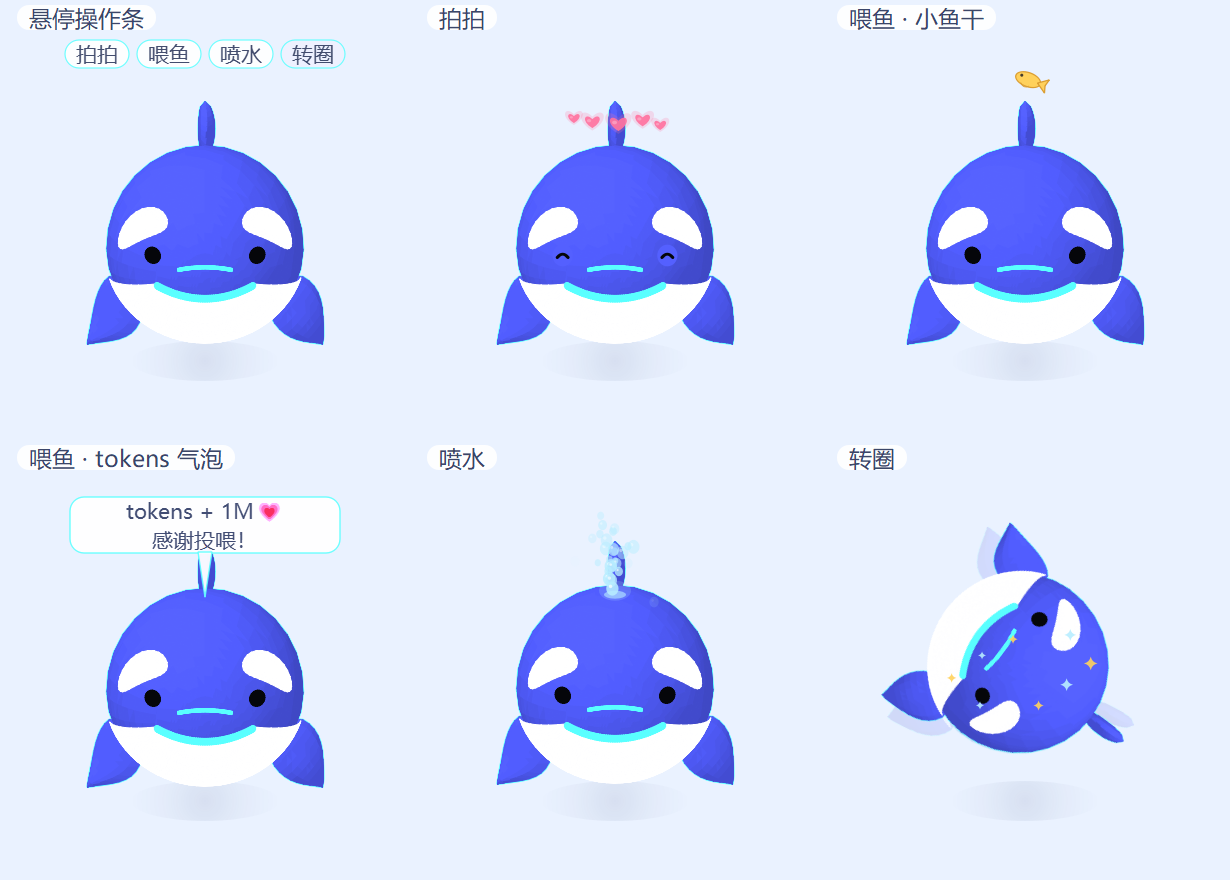
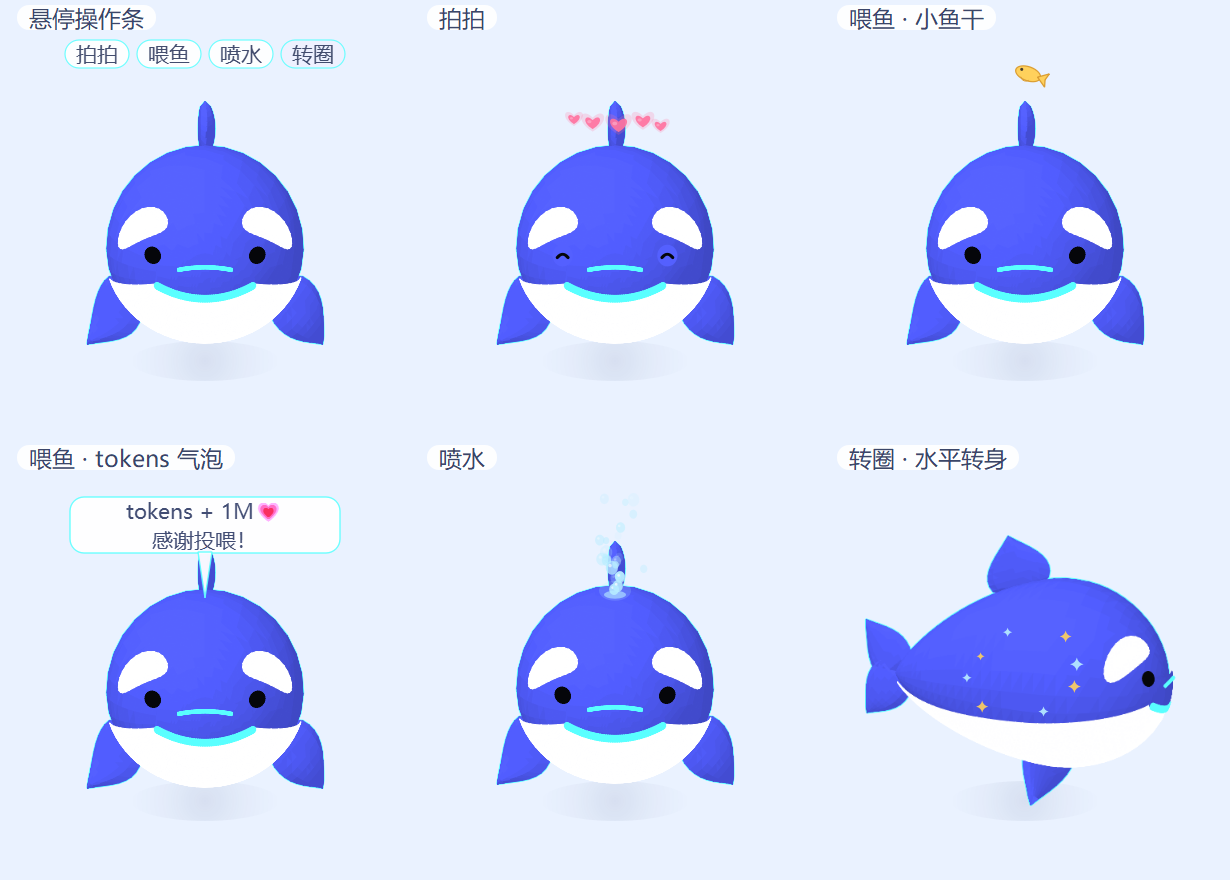
Use pre-rendered 3D turntable for spin

diff --git a/whale_pet_3d.py b/whale_pet_3d.py
@@ -25,6 +25,7 @@ from __future__ import annotations
 import math
 import sys
 import time
+from pathlib import Path
 
 from PyQt5.QtCore import (
     QEasingCurve,
@@ -108,6 +109,11 @@ class WhalePet(QWidget):
         self._spin_frames = []
         self._spin_key = None
         self._spin_duration = 1.35
+        self._spin_sheet = QImage()
+        self._spin_sheet_cell = 400
+        self._spin_sheet_cols = 6
+        self._spin_sheet_rows = 6
+        self._spin_start_index = 0
 
         self._yaw = INITIAL_YAW
         self._pitch = INITIAL_PITCH
@@ -226,13 +232,9 @@ class WhalePet(QWidget):
         nod = self._effects.nod_offset(now)
         y_shift = bob + nod
 
-        if self._effects.name == "spin" and self._spin_frames:
+        if self._effects.name == "spin":
             progress = (now - self._effects.start) / self._spin_duration
             progress = max(0.0, min(1.0, progress))
-            index = min(
-                len(self._spin_frames) - 1,
-                int(progress * len(self._spin_frames)),
-            )
             hop = -8.0 * math.sin(math.pi * progress)
             target = QRectF(
                 0.0,
@@ -240,7 +242,30 @@ class WhalePet(QWidget):
                 float(PET_SIZE),
                 float(PET_SIZE),
             )
-            painter.drawImage(target, self._spin_frames[index])
+            if not self._spin_sheet.isNull():
+                count = self._spin_sheet_cols * self._spin_sheet_rows
+                eased = progress * progress * (3.0 - 2.0 * progress)
+                index = (
+                    self._spin_start_index + int(eased * count)
+                ) % count
+                col = index % self._spin_sheet_cols
+                row = index // self._spin_sheet_cols
+                cell = float(self._spin_sheet_cell)
+                source = QRectF(
+                    col * cell,
+                    row * cell,
+                    cell,
+                    cell,
+                )
+                painter.drawImage(target, self._spin_sheet, source)
+            elif self._spin_frames:
+                index = min(
+                    len(self._spin_frames) - 1,
+                    int(progress * len(self._spin_frames)),
+                )
+                painter.drawImage(target, self._spin_frames[index])
+            else:
+                painter.drawImage(target, image)
         else:
             target = QRectF(0.0, y_shift, float(PET_SIZE), float(PET_SIZE))
             painter.drawImage(target, image)
@@ -358,8 +383,29 @@ class WhalePet(QWidget):
     # ------------------------------------------------------------------
     # 互动
     # ------------------------------------------------------------------
+    def _load_spin_sheet(self) -> bool:
+        """加载预渲染的 3D 水平转台动画（6×6，共 36 帧）。"""
+        if not self._spin_sheet.isNull():
+            return True
+        path = Path(__file__).resolve().parent / "spin_sheet.png"
+        image = QImage(str(path))
+        if image.isNull():
+            return False
+        cols = 6
+        rows = 6
+        if image.width() % cols or image.height() % rows:
+            return False
+        cell = image.width() // cols
+        if cell <= 0 or image.height() // rows != cell:
+            return False
+        self._spin_sheet = image
+        self._spin_sheet_cell = cell
+        self._spin_sheet_cols = cols
+        self._spin_sheet_rows = rows
+        return True
+
     def _build_spin_frames(self) -> None:
-        """把当前视角的缓存图预渲染成 36 帧转圈动画。"""
+        """素材缺失时的后备方案：把当前缓存图做成 2D 转圈动画。"""
         image, _render_size = self._current_image()
         dpr = max(1.0, float(image.devicePixelRatio()))
         key = (
@@ -410,9 +456,16 @@ class WhalePet(QWidget):
         if name == "spin":
             if self._effects.active:
                 return
-            self._build_spin_frames()
+            has_sheet = self._load_spin_sheet()
+            if not has_sheet:
+                self._build_spin_frames()
             if not self._effects.trigger("spin"):
                 return
+            if has_sheet:
+                count = self._spin_sheet_cols * self._spin_sheet_rows
+                self._spin_start_index = int(
+                    round((self._yaw % 360.0) / 10.0)
+                ) % count
         else:
             if not self._effects.trigger(name):
                 return

diff --git a/whale_effects.py b/whale_effects.py
@@ -6,7 +6,7 @@
   - 拍拍：眯眼 + 爱心
   - 喂鱼：小鱼干落下 + 点头 + tokens 气泡
   - 喷水：头顶浅蓝色水珠喷泉
-  - 转圈：画面旋转动画 + 星星（旋转帧由窗口预生成）
+  - 转圈：3D 水平转台动画 + 星星（转台帧已预渲染）
 """
 
 from __future__ import annotations

diff --git a/README.md b/README.md
@@ -38,12 +38,13 @@
 | **拍拍** | 小鲸鱼眯起眼睛，头顶冒出几颗粉色爱心 |
 | **喂鱼** | 一条黄色小鱼干从上方落下，小鲸鱼轻轻点头，然后冒出「tokens + 1M💗，感谢投喂！」气泡 |
 | **喷水** | 头顶喷出浅蓝色水珠喷泉，持续约 3 秒 |
-| **转圈** | 小鲸鱼像小陀螺一样原地转一整圈，周围冒出星星，约 1.35 秒 |
+| **转圈** | 小鲸鱼绕垂直轴水平转一整圈，周围冒出星星，约 1.35 秒 |
 
 - 按钮日常隐藏，鼠标移开后还会停留 1 秒再淡出，方便从容点击；
 - 右键菜单里也有「拍拍 / 喂鱼 / 喷水 / 转圈」，方便发现；
 - 拍拍、喂鱼、喷水期间可以继续旋转和移动小鲸鱼；转圈时会短暂锁定视角，避免动画和手动旋转打架；
-- 转圈不是逐帧渲染 3D，而是从当前视角的缓存图预生成 36 帧 2D 动画，点击后直接播放，所以不会卡；
+- 转圈不是逐帧渲染 3D，而是提前做好一张 6×6 的 36 帧 3D 转台图（`spin_sheet.png`），点击后从当前水平角度附近开始直接播放，所以不会卡；
+- 目前转台图按初始俯仰和缩放预渲染，水平角度会从你当前转到的位置附近开始；
 - 互动特效是叠加在 3D 画面上的轻量 2D 粒子，不会重新生成 3D 模型。
 
 ### 第二版比例微调
@@ -201,7 +202,8 @@ DRAG_RENDER_SCALE = 0.84  # 拖动时的临时渲染比例
 whale_pet/
 ├─ whale_pet_3d.py          # 3D 桌宠主程序（推荐运行）
 ├─ whale3d.py               # 3D 小鲸鱼模型 + 软件渲染器
-├─ whale_effects.py         # 拍拍 / 喂鱼 / 喷水特效
+├─ whale_effects.py         # 拍拍 / 喂鱼 / 喷水 / 转圈特效
+├─ spin_sheet.png           # 预渲染的 36 帧 3D 转台动画
 ├─ render_preview_3d.py     # 生成桌面图 / 多角度图（开发用）
 ├─ interaction_preview.png  # 互动效果预览
 ├─ preview_3d.png           # 桌面效果预览
